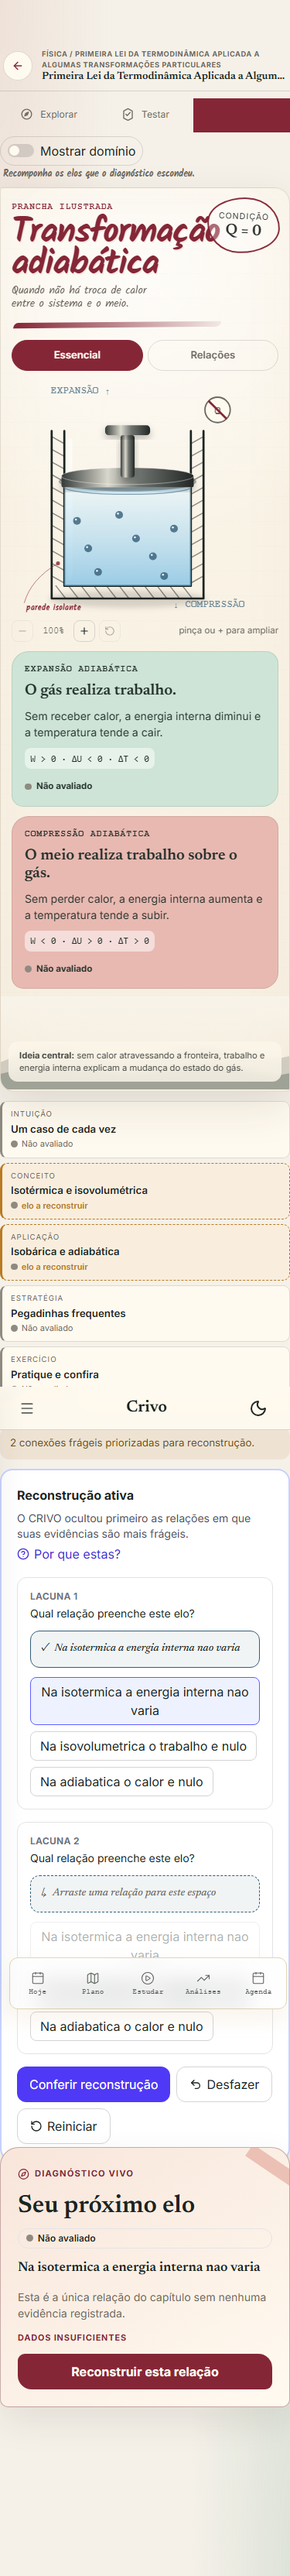
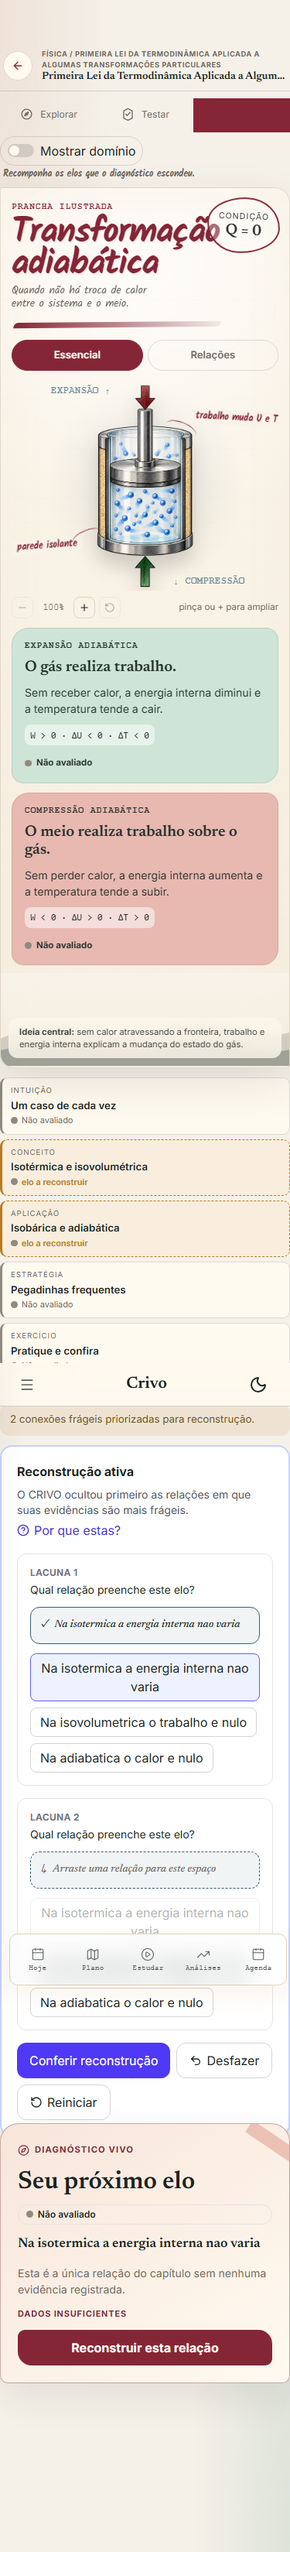
feat(visual): integra ilustrações de atlas científico

Changed region(s): [[0.0, 0.0, 1.0, 0.9372], [0.968, 0.8123, 0.9973, 0.8435], [0.9093, 0.906, 0.9387, 0.9372]]

diff --git a/src/views/visual-boards/AdiabaticBoard.tsx b/src/views/visual-boards/AdiabaticBoard.tsx
@@ -1,4 +1,5 @@
 import React from 'react';
+import { motion, useReducedMotion } from 'motion/react';
 import type { BoardProps } from './types';
 import BoardShell from './BoardShell';
 import { boardPair } from './pair';
@@ -106,6 +107,24 @@ function AdiabaticPiston({ emphasis }: { emphasis: 'expansao' | 'compressao' | '
   );
 }
 
+function AdiabaticAtlas({ emphasis }: { emphasis: 'expansao' | 'compressao' | 'nenhum' }) {
+  const reduced = useReducedMotion();
+  const y = emphasis === 'expansao' ? -10 : emphasis === 'compressao' ? 10 : 0;
+  return (
+    <div className="vs-atlas-scene vs-atlas-scene--piston" data-emphasis={emphasis}>
+      <motion.img
+        src="/visual-assets/adiabatic-piston-atlas.webp"
+        alt="Corte ilustrado de um cilindro adiabático com paredes isolantes, pistão metálico e moléculas de gás"
+        initial={reduced ? false : { opacity: 0, scale: .92 }}
+        animate={{ opacity: 1, scale: emphasis === 'nenhum' ? 1 : 1.035, y }}
+        transition={reduced ? { duration: 0 } : { type: 'spring', stiffness: 120, damping: 18 }}
+      />
+      <span className="vs-atlas-label vs-atlas-label--left">parede isolante</span>
+      <span className="vs-atlas-label vs-atlas-label--right">trabalho muda U e T</span>
+    </div>
+  );
+}
+
 export default function AdiabaticBoard(props: BoardProps) {
   const par = boardPair(props);
 
@@ -115,7 +134,7 @@ export default function AdiabaticBoard(props: BoardProps) {
       subtitle="Quando não há troca de calor entre o sistema e o meio."
       condition={{ label: 'condição', value: 'Q = 0' }}
       ariaLabel="Prancha ilustrada de transformação adiabática"
-      scene={<AdiabaticPiston emphasis={par.emphasis === 'esquerda' ? 'expansao' : par.emphasis === 'direita' ? 'compressao' : 'nenhum'} />}
+      scene={<AdiabaticAtlas emphasis={par.emphasis === 'esquerda' ? 'expansao' : par.emphasis === 'direita' ? 'compressao' : 'nenhum'} />}
       sceneNotes={{ up: 'expansão ↑', down: '↓ compressão' }}
       emphasis={par.emphasis}
       left={{

diff --git a/src/views/Visual.css b/src/views/Visual.css
@@ -1692,6 +1692,53 @@
   text-align: center;
 }
 
+.vs-atlas-scene {
+  position: relative;
+  width: 100%;
+  min-height: 320px;
+  display: grid;
+  place-items: center;
+  isolation: isolate;
+}
+.vs-atlas-scene::before {
+  content: "";
+  position: absolute;
+  z-index: -1;
+  width: 78%;
+  aspect-ratio: 1;
+  border-radius: 50%;
+  background: radial-gradient(circle, color-mix(in srgb, var(--vs-blue) 12%, transparent), transparent 68%);
+}
+.vs-atlas-scene img {
+  display: block;
+  width: 100%;
+  height: 310px;
+  object-fit: contain;
+  filter: drop-shadow(0 15px 12px rgba(33, 27, 20, .16));
+}
+.vs-atlas-scene--photo img { width: 118%; max-width: none; height: 300px; }
+.vs-atlas-label {
+  position: absolute;
+  z-index: 2;
+  padding: 3px 7px;
+  color: var(--vs-burgundy);
+  background: color-mix(in srgb, var(--vs-paper) 82%, transparent);
+  font: 700 .72rem/1.1 "Kalam", cursive;
+  transform: rotate(-4deg);
+}
+.vs-atlas-label::after { content: ""; position: absolute; width: 42px; height: 20px; border-top: 1.5px solid currentColor; border-radius: 50%; }
+.vs-atlas-label--left { left: 0; bottom: 48px; }
+.vs-atlas-label--left::after { left: 85%; top: -8px; transform: rotate(-18deg); }
+.vs-atlas-label--right { right: -6px; top: 38px; transform: rotate(3deg); }
+.vs-atlas-label--right::after { right: 92%; top: 18px; transform: rotate(20deg); }
+.vs-atlas-label--sun { left: 2px; top: 16px; color: #9a5c10; }
+.vs-atlas-label--sun::after { left: 84%; top: 18px; transform: rotate(14deg); }
+@media (max-width: 700px) {
+  .vs-atlas-scene { min-height: 270px; }
+  .vs-atlas-scene img { height: 265px; }
+  .vs-atlas-scene--photo img { width: 112%; height: 245px; }
+}
+
 /* Composição editorial aprovada: a prancha começa no primeiro enquadramento e
    todo o chrome se comporta como margem de caderno, não como dashboard. */
 .crivo-visual { display: grid; gap: 12px; }

diff --git a/src/views/visual-boards/PhotosynthesisBoard.tsx b/src/views/visual-boards/PhotosynthesisBoard.tsx
@@ -1,4 +1,5 @@
 import React from 'react';
+import { motion, useReducedMotion } from 'motion/react';
 import BoardShell from './BoardShell';
 import { boardPair } from './pair';
 import type { BoardProps } from './types';
@@ -77,6 +78,22 @@ function LeafScene({ emphasis }: { emphasis: 'esquerda' | 'direita' | 'nenhum' }
   );
 }
 
+function PhotosynthesisAtlas({ emphasis }: { emphasis: 'esquerda' | 'direita' | 'nenhum' }) {
+  const reduced = useReducedMotion();
+  return (
+    <div className="vs-atlas-scene vs-atlas-scene--photo" data-emphasis={emphasis}>
+      <motion.img
+        src="/visual-assets/photosynthesis-atlas.webp"
+        alt="Ilustração científica de uma folha e um cloroplasto em corte, com grana, luz e moléculas entrando e saindo"
+        initial={reduced ? false : { opacity: 0, scale: .94 }}
+        animate={{ opacity: 1, scale: emphasis === 'esquerda' ? 1.045 : 1, x: emphasis === 'direita' ? -8 : 0 }}
+        transition={reduced ? { duration: 0 } : { type: 'spring', stiffness: 105, damping: 20 }}
+      />
+      <span className="vs-atlas-label vs-atlas-label--sun">luz vira energia química</span>
+    </div>
+  );
+}
+
 export default function PhotosynthesisBoard(props: BoardProps) {
   const par = boardPair(props);
   return (
@@ -85,7 +102,7 @@ export default function PhotosynthesisBoard(props: BoardProps) {
       subtitle="Os reagentes se invertem; as organelas e o horário, não."
       condition={{ label: 'saldo', value: 'ATP' }}
       ariaLabel="Prancha ilustrada de bioenergética: fotossíntese e respiração celular"
-      scene={<LeafScene emphasis={par.emphasis} />}
+      scene={<PhotosynthesisAtlas emphasis={par.emphasis} />}
       sceneNotes={{ up: 'com luz ↑', down: '↓ sempre' }}
       emphasis={par.emphasis}
       left={{

diff --git a/docs/visual-personalizado/03-registro-de-implementacao.md b/docs/visual-personalizado/03-registro-de-implementacao.md
@@ -33,6 +33,27 @@ mitocôndria receberam volume, textura e anatomia reconhecível; Newton recebeu
 traço de lousa e marcas de força. Explorar, Testar e Reconstruir agora têm
 glifos próprios, desenhados para a função pedagógica de cada modo.
 
+## 2026-09-15 — direção de arte assistida por geração de imagem
+
+Foram aplicadas em conjunto as skills `frontend-design-direction`,
+`design-system`, `motion-advanced`, `browser-qa`, `imagegen` e UI/UX Pro Max.
+A busca especializada apontou o encontro entre atlas científico editorial e
+estética manual imperfeita; resultados incompatíveis, como brutalismo genérico,
+foram descartados.
+
+As cinco telas aprovadas foram fornecidas como referências diretas ao gerador.
+Os assets resultantes não contêm texto nem interface: são ilustrações em camada
+transparente, enquanto rótulos, estado pedagógico e controles permanecem HTML
+ou SVG acessíveis. Foram convertidos para WebP com transparência e qualidade 88:
+
+- `public/visual-assets/adiabatic-piston-atlas.webp` — pistão, gás, isolamento e
+  forças em linguagem de atlas científico;
+- `public/visual-assets/photosynthesis-atlas.webp` — cloroplasto, folha, luz,
+  moléculas e fluxos.
+
+As imagens entram por componentes `motion`, reagem ao conceito selecionado e
+ficam estáticas quando a estudante prefere movimento reduzido.
+
 ### Primeira etapa técnica
 
 ### Arquivos criados
